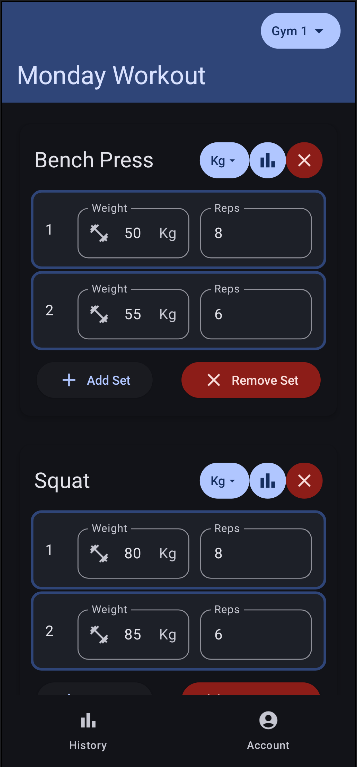
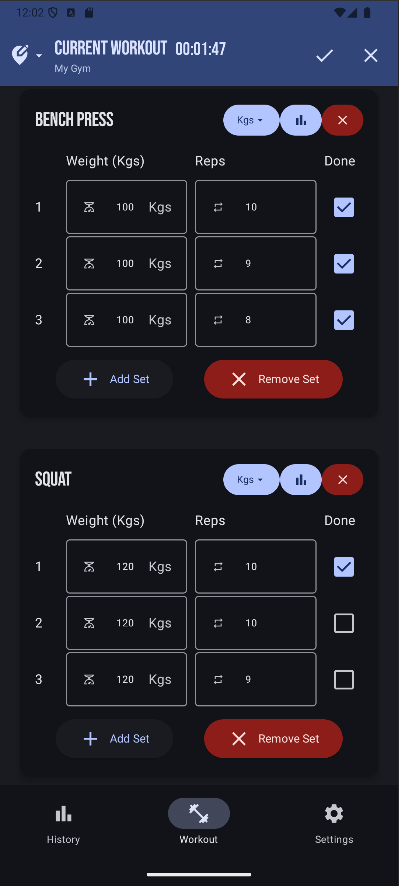
Improve README.md

diff --git a/README.md b/README.md
@@ -1,7 +1,25 @@
-# Barebones Fitness Application
+# Barebones Fitness Application - WorkoutLog <img src="docs/fitness_app_icon.png" alt="App Icon" width="80" style="vertical-align:middle; margin-right:10px;" /> 
+
+
+
+
 
 This is a fitness application made using Android Studio, and Jetpack Compose. See the full planning document [here](docs/planning_document.pdf)
 
 
 ![Light Mode UI Preview](docs/light_mode_ui_preview.png)
 ![Dark Mode UI Preview](docs/dark_mode_ui_preview.png)
+
+
+## Database Design
+
+This application uses a structured database to efficiently manage workouts and exercises.
+
+- **Database Overview:**  
+    ![Explanation of the nested database](docs/explanatory_database_figure.png)
+
+- **Table Structure:**  
+    The following diagram illustrates the Room database tables. All tables except `ExerciseVariation` have been implemented.  
+    ![Table Structure](docs/room_structure.png)
+
+
